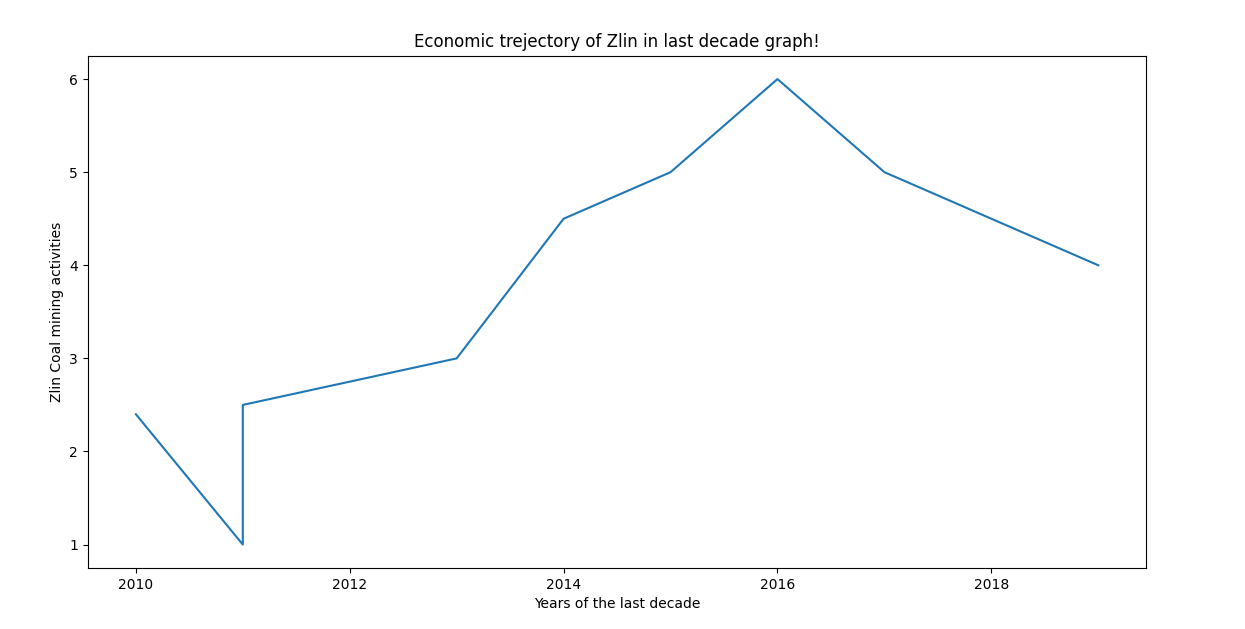
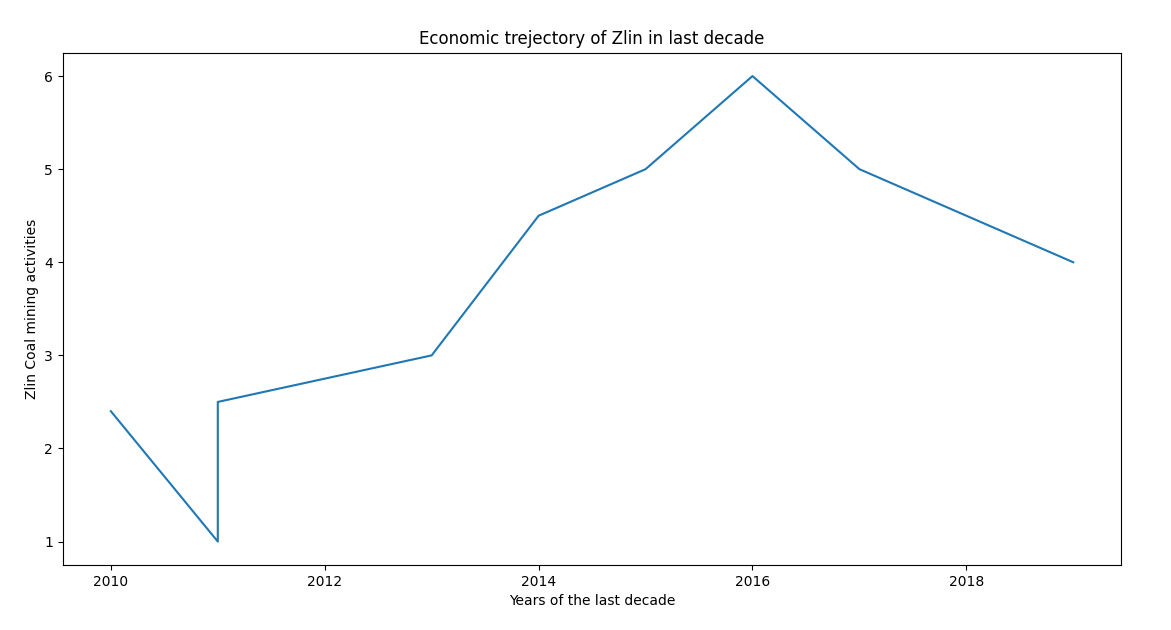
simution of alternative policies

diff --git a/bank3.py b/bank3.py
@@ -1,0 +1,35 @@
+# SCRIPT FOR COAL MINING COMPARISIONS
+import matplotlib.pyplot as plt 
+# Recorded Amounts of coal activities in metric values 
+x =  [2.4, 4, 7.5, 6, 5.2, 5, 4, 2,4] 
+x1 =  [2.1, 4, 7.5, 6, 5.2, 5, 3, 3,3] 
+
+x2 = [1.4, 2, 2.5, 3, 2.2, 4, 5, 5,8] 
+x3 = [2.4, 2, 3.5, 3, 4.5, 6, 7, 4,4] 
+x4 = [2.4, 4, 7.5, 7, 6.5, 6, 8, 7,6] 
+# corresponding years 
+y = [2010, 2011,2011,2013,2014,2015,2016,2017,2019] 
+y1 = [2010, 2011,2011,2013,2014,2015,2016,2017,2019] 
+
+y2 = [2010, 2011,2011,2013,2014,2015,2016,2017,2019] 
+y3 = [2010, 2011,2011,2013,2014,2015,2016,2017,2019]
+y4 = [2010, 2011,2011,2013,2014,2015,2016,2017,2019] 
+
+# plotting the line points  
+plt.plot(y4, x4, label = "Zlin activities",color='yellow',) 
+plt.plot(y3, x3, label = "Brno activities",color='orange',) 
+plt.plot(y2, x2, label = "Praha activities",color='red',) 
+
+plt.plot(y1, x1, label = "Big green",color='green', linestyle='dashed',marker='x') 
+plt.plot(y, x, label = "Small green",color='blue', linestyle='dashed',marker='o') 
+
+# naming the  axis and limitations
+plt.ylabel('Coal mining activities index') 
+plt.ylim(1,9.5) 
+plt.xlabel('Years of the last decade') 
+plt.xlim(2010,2020) 
+plt.title('Trejectories of Zlin/Brno/Praha in last decade') 
+
+# function to show the coal mining and economic impact 
+plt.legend()
+plt.show() 

diff --git a/bank2.py b/bank2.py
@@ -17,7 +17,7 @@ plt.plot(y3, x3, label = "Praha activities")
 # naming the  axis 
 plt.ylabel('Coal mining activities index') 
 plt.xlabel('Years of the last decade') 
-plt.title('Economic trejectory of Zlin/Brno/Praha in last decade graph!') 
+plt.title('Economic trejectory of Zlin/Brno/Praha in last decade') 
 # function to show the coal mining and economic impact 
 plt.legend()
 plt.show() 

diff --git a/bank1.py b/bank1.py
@@ -11,6 +11,6 @@ plt.plot(y, x)
 # naming the  axis 
 plt.ylabel('Zlin Coal mining activities') 
 plt.xlabel('Years of the last decade') 
-plt.title('Economic trejectory of Zlin in last decade graph!') 
+plt.title('Economic trejectory of Zlin in last decade') 
 # function to show the coal mining and economic impact 
 plt.show() 

diff --git a/README.md b/README.md
@@ -20,7 +20,7 @@ Below are some screens shots from the computations console
 
 ![ AMuntu #1 ](https://github.com/LINOSNCHENA/Python-Wordbank-data-mining-project/blob/main/UXVIEW/page1.png)
 ![ AMuntu #2 ](https://github.com/LINOSNCHENA/Python-Wordbank-data-mining-project/blob/main/UXVIEW/page2.png)
-![ AMuntu #3 ](https://github.com/LINOSNCHENA/Python-Wordbank-data-mining-project/blob/main/UXVIEW/page1.png)
-![ AMuntu #4 ](https://github.com/LINOSNCHENA/Python-Wordbank-data-mining-project/blob/main/UXVIEW/page2.png)
-![ AMuntu #5 ](https://github.com/LINOSNCHENA/Python-Wordbank-data-mining-project/blob/main/UXVIEW/page1.png)
+![ AMuntu #3 ](https://github.com/LINOSNCHENA/Python-Wordbank-data-mining-project/blob/main/UXVIEW/page3.png)
+![ AMuntu #4 ](https://github.com/LINOSNCHENA/Python-Wordbank-data-mining-project/blob/main/UXVIEW/page4.png)
+![ AMuntu #5 ](https://github.com/LINOSNCHENA/Python-Wordbank-data-mining-project/blob/main/UXVIEW/page5.png)
 
